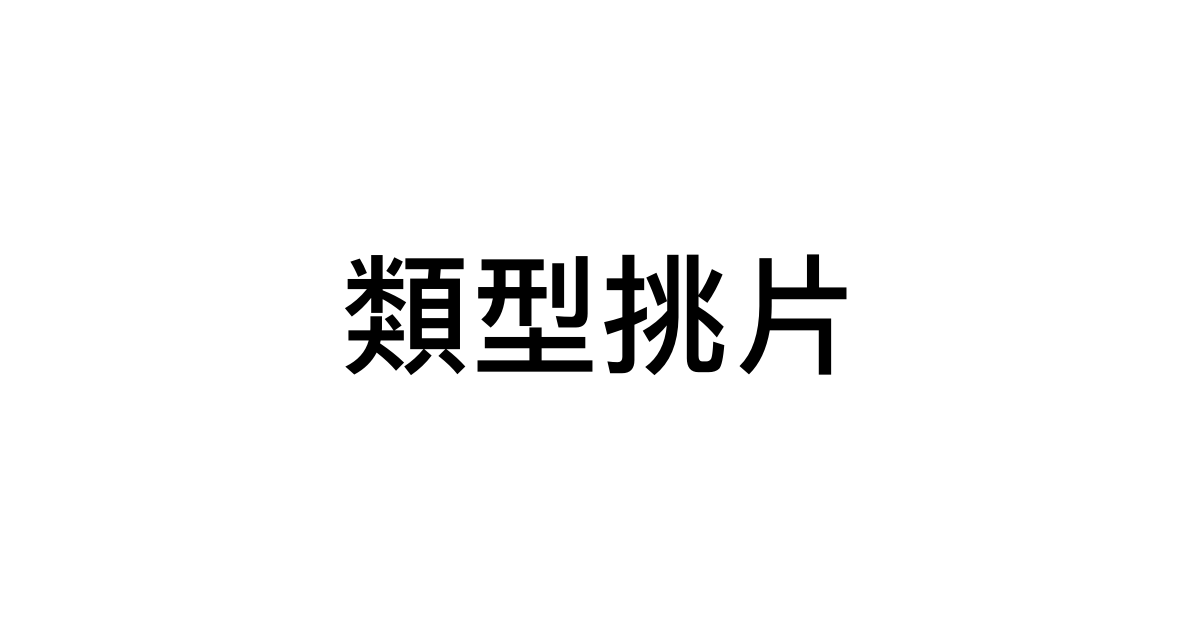
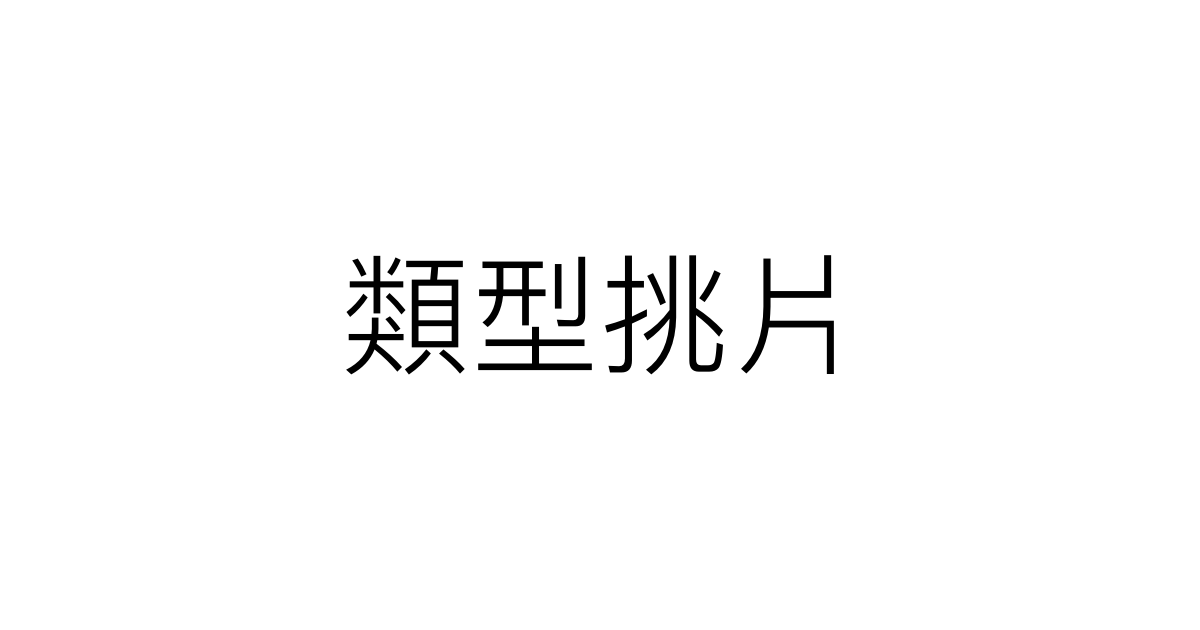
Genre: remove 冷門 from shareable text, og image use real PingFang TC Light

Changed region(s): [[0.2775, 0.3921, 0.7092, 0.6032]]

diff --git a/genre/index.html b/genre/index.html
@@ -4,7 +4,7 @@
   <meta charset="UTF-8">
   <title>類型挑片 — dip vinyl shop</title>
   <meta property="og:title" content="類型挑片">
-  <meta property="og:description" content="選個領域，透過三位藝人的品味，挖出屬於你的那張冷門專輯。">
+  <meta property="og:description" content="選個領域，透過三位藝人的品味，挖出屬於你的那張。">
   <meta property="og:image" content="https://dip-vinyl-shop.pages.dev/og-genre-v2.png">
   <meta property="og:url" content="https://dip-vinyl-shop.pages.dev/genre">
   <meta property="og:type" content="website">

diff --git a/index.html b/index.html
@@ -2176,7 +2176,7 @@ ${seenList}
     ctx.fillStyle = '#111111'; ctx.font = '700 42px "Space Mono", monospace';
     ctx.fillText('類型挑片', W / 2, 90);
     ctx.fillStyle = '#999999'; ctx.font = '400 30px "Space Mono", monospace';
-    ctx.fillText('挖出你的那張冷門', W / 2, 136);
+    ctx.fillText('挖出你的那張', W / 2, 136);
     ctx.textAlign = 'left';
     ctx.strokeStyle = '#dddddd'; ctx.lineWidth = 1;
     ctx.beginPath(); ctx.moveTo(PAD, 168); ctx.lineTo(W - PAD, 168); ctx.stroke();